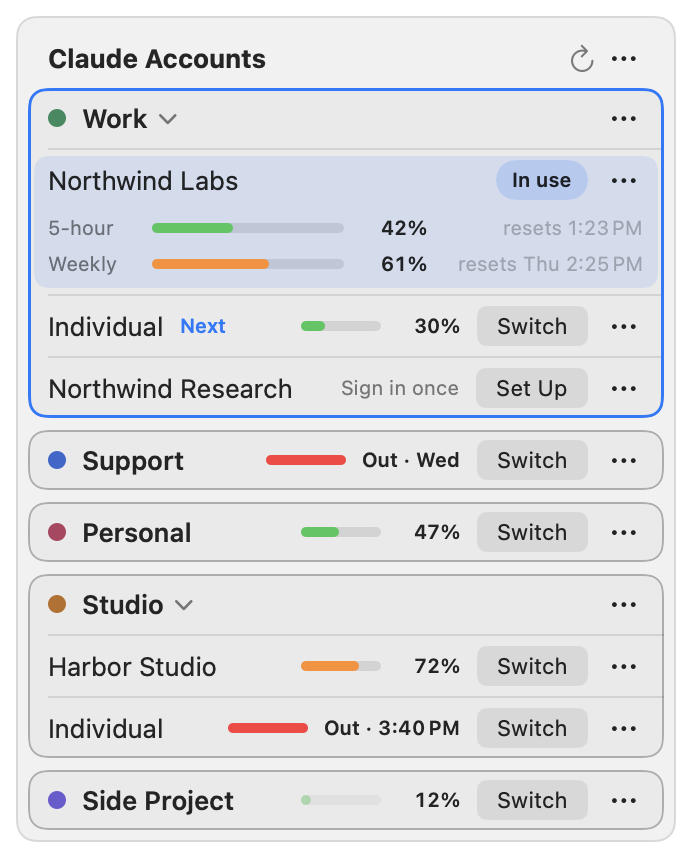
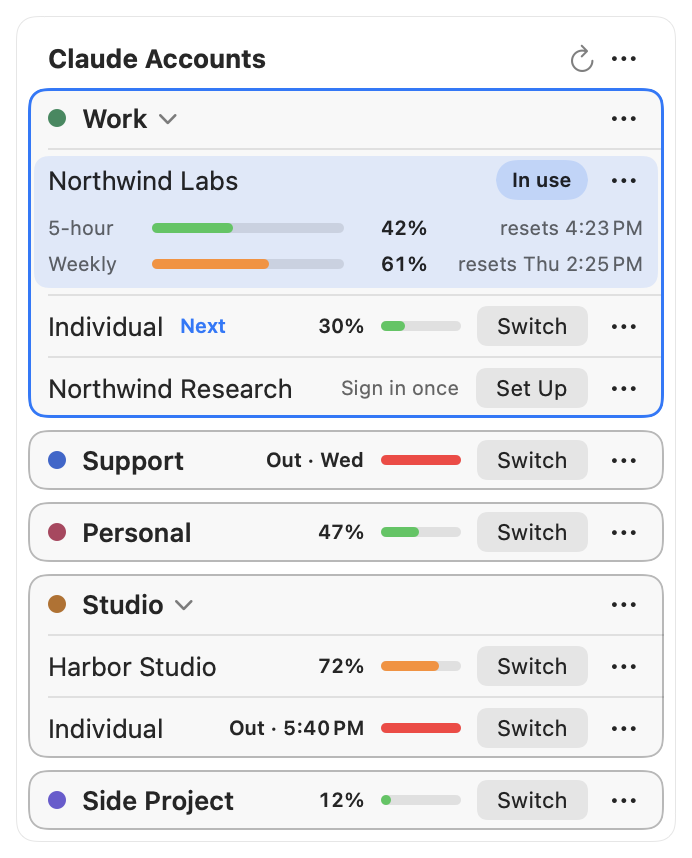
add a script that draws the menu in fixed states, share the title menu's items with it, and redraw the readme picture with it

diff --git a/scripts/render-menu.swift b/scripts/render-menu.swift
@@ -1,0 +1,284 @@
+// Draws the menu in fixed states to PNGs, for reviewing a menu change and for docs/menu.png.
+// Built and run by scripts/render-menu.sh with every app source except Main.swift, so the app
+// never starts. Seats.build and AppState.notice decide each state from hand-built Facts, and
+// MenuPanel draws them with empty MenuActions at a fixed time. Nothing reads a file, runs a
+// program, opens Claude, the keychain or the network: the menu is drawn from values only.
+
+import AppKit
+import SwiftUI
+
+func uuid(_ n: Int) -> String { String(format: "%08x-0000-4000-8000-%012x", n, n) }
+
+let cal = Calendar.current
+let now = cal.date(from: DateComponents(year: 2026, month: 11, day: 23, hour: 14, minute: 5))!
+func at(_ h: Int, _ m: Int, dayOffset: Int = 0) -> Date {
+    cal.date(byAdding: .day, value: dayOffset, to: cal.date(bySettingHour: h, minute: m, second: 0, of: now)!)!
+}
+let thursday9 = at(9, 0, dayOffset: 3)
+
+func row(_ id: Int, account: Int, name: String, orgName: String, color: String = "") -> AccountRecord {
+    AccountRecord(id: "r\(id)", name: name, color: color, configDir: "/nonexistent", keychainService: "none",
+                  email: nil, accountUuid: uuid(account), orgName: orgName, orgUuid: uuid(100 + id))
+}
+
+/// 8 seats across 5 accounts.
+let baseRows: [AccountRecord] = [
+    row(1, account: 1, name: "Alpha", orgName: "alpha@example.com's Organization"),
+    row(2, account: 1, name: "Alpha", orgName: "Labs"),
+    row(3, account: 1, name: "Alpha", orgName: "Research"),
+    row(4, account: 2, name: "Beta", orgName: "beta@example.com's Organization"),
+    row(5, account: 2, name: "Beta", orgName: "Studio"),
+    row(6, account: 3, name: "Work", orgName: "Northwind"),
+    row(7, account: 4, name: "Home", orgName: "home@example.com's Organization"),
+    row(8, account: 5, name: "Side", orgName: "side@example.com's Organization"),
+].labelled()
+
+func m(_ five: Double?, _ fiveAt: Date?, _ week: Double?, _ weekAt: Date?, read: Date) -> SeatMeters {
+    SeatMeters(fiveHour: five.map { MeterReading(percent: $0, resetsAt: fiveAt) },
+               weekly: week.map { MeterReading(percent: $0, resetsAt: weekAt) }, readAt: read)
+}
+
+/// A Claude log line saying Claude holds `id` from `date`, read the way the app reads Claude's log.
+func logLine(_ date: Date, _ id: Identity) -> String {
+    let f = DateFormatter(); f.locale = Locale(identifier: "en_US_POSIX"); f.dateFormat = ClaudeLog.timeFormat
+    return "\(f.string(from: date)) [info] \(ClaudeLog.identity) accountId=\(id.account) orgId=\(id.org)"
+}
+
+enum Scenario { case spread, allOut, noAccessibility, stale }
+
+/// A desktop-like backdrop that differs from the panel in both appearances.
+let backdrop = Color(red: 0.45, green: 0.52, blue: 0.60)
+
+func facts(_ s: Scenario, order: SwitchOrder) -> Facts {
+    var f = Facts()
+    f.rows = baseRows
+    f.claude = ClaudeFacts(installed: true, running: true, missing: [])
+    f.log.read(logLine(at(13, 0), baseRows[1].seat))   // Claude holds Alpha · Labs since 1 PM
+    f.trusted = s != .noAccessibility
+    f.order = order
+    let fresh = now.addingTimeInterval(-2 * 60)
+    for r in baseRows where r.id != "r7" { f.saved[r.seat] = at(9, 0, dayOffset: -2) }   // Home was never signed in
+    switch s {
+    case .spread, .noAccessibility, .stale:
+        f.meters[baseRows[0].seat] = m(22, at(16, 40), 41, thursday9, read: now.addingTimeInterval(-42 * 60)) // stale
+        f.meters[baseRows[1].seat] = m(64, at(16, 10), 38, thursday9, read: fresh)                         // in use
+        f.meters[baseRows[2].seat] = m(8, at(18, 15), 15, thursday9, read: fresh)
+        f.meters[baseRows[3].seat] = m(12, at(17, 0), 20, thursday9, read: fresh)
+        f.meters[baseRows[4].seat] = m(100, at(17, 30), 57, thursday9, read: fresh)                        // out
+        f.meters[baseRows[5].seat] = m(31, at(15, 50), 24, thursday9, read: fresh)
+        f.meters[baseRows[7].seat] = m(5, at(18, 45), 72, thursday9, read: fresh)
+        if s == .stale {
+            // The seat in use read 42 min ago, and Work not read yet.
+            f.meters[baseRows[1].seat] = m(64, at(16, 10), 38, thursday9, read: now.addingTimeInterval(-42 * 60))
+            f.meters[baseRows[5].seat] = nil
+        }
+    case .allOut:
+        f.meters[baseRows[0].seat] = m(100, at(16, 40), 41, thursday9, read: fresh)
+        f.meters[baseRows[1].seat] = m(100, at(16, 10), 61, thursday9, read: fresh)
+        f.stops[baseRows[1].seat] = StopMark(at: now.addingTimeInterval(-6 * 60), resetsAt: at(16, 10))
+        f.meters[baseRows[2].seat] = m(100, at(15, 20), 33, thursday9, read: fresh)
+        f.meters[baseRows[3].seat] = m(100, at(17, 0), 48, thursday9, read: fresh)
+        f.meters[baseRows[4].seat] = m(100, at(17, 30), 57, thursday9, read: fresh)
+        f.meters[baseRows[5].seat] = m(100, at(15, 50), 70, thursday9, read: fresh)
+        f.meters[baseRows[7].seat] = m(64, at(18, 45), 100, thursday9, read: fresh)
+        f.waitingChats = 2
+    }
+    return f
+}
+
+/// The 8 seats plus 16 one-seat accounts, 8 above and 8 below, so the in-use card sits mid-list
+/// and the cards need more than a 900 pt screen gives them.
+func overflowFacts() -> Facts {
+    let before = ["Gamma", "Delta", "Echo", "Fern", "Grove", "Harbor", "Iris", "Juniper"]
+    let after = ["Kestrel", "Lumen", "Maple", "Nova", "Orbit", "Pine", "Quartz", "Reed"]
+    let extra = { (names: [String], start: Int) in
+        names.enumerated().map { i, n in row(start + i, account: start + i, name: n, orgName: "\(n.lowercased())@example.com's Organization") }
+    }
+    var f = facts(.noAccessibility, order: .topToBottom)
+    f.rows = (extra(before, 20) + baseRows + extra(after, 40)).labelled()
+    for (i, r) in f.rows.enumerated() where f.meters[r.seat] == nil && r.id != "r7" {
+        f.saved[r.seat] = at(9, 0, dayOffset: -2)
+        let p = Double((i * 37) % 90)
+        f.meters[r.seat] = m(p, at(17, 0), p / 2, thursday9, read: now.addingTimeInterval(-120))
+    }
+    return f
+}
+
+/// The README's picture: the seat in use with both meters, Next, two seats out, one to set up.
+func readmeFacts() -> Facts {
+    let rows = [
+        row(1, account: 1, name: "Work", orgName: "Northwind Labs", color: "#2C8A5E"),
+        row(2, account: 1, name: "Work", orgName: "work@example.com's Organization", color: "#2C8A5E"),
+        row(3, account: 1, name: "Work", orgName: "Northwind Research", color: "#2C8A5E"),
+        row(4, account: 2, name: "Support", orgName: "support@example.com's Organization", color: "#3567CF"),
+        row(5, account: 3, name: "Personal", orgName: "personal@example.com's Organization", color: "#B3405F"),
+        row(6, account: 4, name: "Studio", orgName: "Harbor Studio", color: "#B96E22"),
+        row(7, account: 4, name: "Studio", orgName: "studio@example.com's Organization", color: "#B96E22"),
+        row(8, account: 5, name: "Side Project", orgName: "side@example.com's Organization", color: "#6B5BD2"),
+    ].labelled()
+    var f = Facts()
+    f.rows = rows
+    f.claude = ClaudeFacts(installed: true, running: true, missing: [])
+    f.log.read(logLine(at(13, 0), rows[0].seat))
+    f.trusted = true
+    let fresh = now.addingTimeInterval(-2 * 60)
+    for r in rows where r.id != "r3" { f.saved[r.seat] = at(9, 0, dayOffset: -2) }   // Northwind Research is still to set up
+    f.meters[rows[0].seat] = m(42, at(16, 23), 61, at(14, 25, dayOffset: 3), read: fresh)
+    f.meters[rows[1].seat] = m(30, at(17, 10), 22, thursday9, read: fresh)
+    f.meters[rows[3].seat] = m(35, at(18, 0), 100, at(10, 0, dayOffset: 2), read: fresh)
+    f.meters[rows[4].seat] = m(47, at(16, 50), 30, thursday9, read: fresh)
+    f.meters[rows[5].seat] = m(72, at(17, 20), 44, thursday9, read: fresh)
+    f.meters[rows[6].seat] = m(100, at(17, 40), 52, thursday9, read: fresh)
+    f.meters[rows[7].seat] = m(12, at(18, 30), 9, thursday9, read: fresh)
+    return f
+}
+
+// MARK: - Drawing
+
+struct Shot: View {
+    let seats: [Seat]
+    let notice: Notice?
+    let visible: CGFloat
+    let header: MenuHeader
+    let looks: MenuLooks
+
+    init(_ f: Facts, visible: CGFloat, header: MenuHeader = MenuHeader(updatedAt: now.addingTimeInterval(-120))) {
+        seats = Seats.build(f, now: now)
+        notice = AppState.notice(f, now: now)
+        self.visible = visible
+        self.header = header
+        looks = MenuLooks(colors: resolvedColors(f.rows.map { ($0.seat.account, $0.color) }))
+    }
+
+    var body: some View {
+        let shape = RoundedRectangle(cornerRadius: 10, style: .continuous)
+        MenuPanel(seats: seats, notice: notice, firstRun: false, visibleScreenHeight: visible,
+                  header: header, looks: looks, now: now)
+            .background(shape.fill(Color(nsColor: .windowBackgroundColor)))
+            .clipShape(shape)
+            .overlay(shape.strokeBorder(Color(nsColor: .separatorColor), lineWidth: 0.5))
+    }
+}
+
+/// The panel on a strip of screen `visible` points tall, so the image shows how much of the
+/// screen the menu takes; nil draws the panel alone.
+struct Screen<Content: View>: View {
+    let visible: CGFloat?
+    @ViewBuilder let content: Content
+    var body: some View {
+        ZStack(alignment: .topTrailing) {
+            Rectangle().fill(backdrop)
+            content.padding(.top, 6).padding(.trailing, 12)
+        }
+        .frame(width: MenuLayout.width + 24, height: visible)
+    }
+}
+
+/// Draws `view` offscreen at 2x into a PNG. The app's activation policy keeps every window off screen.
+@MainActor
+func render<V: View>(_ view: V, dark: Bool, to path: String) {
+    let host = NSHostingView(rootView: view)
+    host.appearance = NSAppearance(named: dark ? .darkAqua : .aqua)
+    host.frame = NSRect(origin: .zero, size: host.fittingSize)
+    let window = NSWindow(contentRect: host.frame, styleMask: [.borderless], backing: .buffered, defer: false)
+    window.appearance = host.appearance
+    window.contentView = host
+    host.layoutSubtreeIfNeeded()
+    // Lets the scroll view apply its scroll-to-the-seat-in-use before the capture.
+    RunLoop.current.run(until: Date().addingTimeInterval(0.4))
+    host.layoutSubtreeIfNeeded()
+    let rep = host.bitmapImageRepForCachingDisplay(in: host.bounds)!
+    host.cacheDisplay(in: host.bounds, to: rep)
+    try! rep.representation(using: .png, properties: [:])!.write(to: URL(fileURLWithPath: path))
+    print("wrote \(path)")
+    window.contentView = nil
+}
+
+/// One NSMenuItem as macOS draws it in a menu: checkmark column, title, shortcut or submenu chevron.
+struct MenuRow: View {
+    let item: NSMenuItem
+    var highlighted = false
+    var body: some View {
+        if item.isSeparatorItem {
+            Divider().padding(.horizontal, 10).frame(height: 11)
+        } else {
+            HStack(spacing: 0) {
+                Image(systemName: "checkmark").font(.system(size: 11, weight: .semibold))
+                    .opacity(item.state == .on ? 1 : 0).frame(width: 22)
+                Text(item.title).font(.system(size: 13))
+                Spacer(minLength: 24)
+                if item.submenu != nil { Image(systemName: "chevron.right").font(.system(size: 11, weight: .semibold)) }
+                else if !item.keyEquivalent.isEmpty {
+                    Text("⌘" + item.keyEquivalent.uppercased()).font(.system(size: 13)).foregroundStyle(.secondary)
+                }
+            }
+            .padding(.trailing, 10)
+            .frame(height: 22)
+            .foregroundStyle(highlighted ? AnyShapeStyle(.white) : AnyShapeStyle(.primary))
+            .background(RoundedRectangle(cornerRadius: 4).fill(highlighted ? Color.accentColor : .clear).padding(.horizontal, 5))
+        }
+    }
+}
+
+/// An open menu in macOS style. AppKit draws real menus only on screen, so the chrome is this tool's.
+struct MenuBox: View {
+    let menu: NSMenu
+    var highlight: String? = nil
+    let width: CGFloat
+    var body: some View {
+        VStack(alignment: .leading, spacing: 0) {
+            ForEach(Array(menu.items.enumerated()), id: \.offset) { _, item in
+                MenuRow(item: item, highlighted: item.title == highlight && !item.isSeparatorItem)
+            }
+        }
+        .padding(.vertical, 5)
+        .frame(width: width)
+        .background(RoundedRectangle(cornerRadius: 7, style: .continuous).fill(Color(nsColor: .windowBackgroundColor)))
+        .overlay(RoundedRectangle(cornerRadius: 7, style: .continuous).strokeBorder(Color(nsColor: .separatorColor), lineWidth: 0.5))
+        .shadow(color: .black.opacity(0.25), radius: 10, y: 4)
+    }
+}
+
+@main
+enum RenderMenu {
+    @MainActor static func main() {
+        NSApplication.shared.setActivationPolicy(.prohibited)
+        let out = CommandLine.arguments[1]
+        func both(_ name: String, _ view: some View) {
+            for dark in [false, true] { render(view, dark: dark, to: "\(out)/\(name)-\(dark ? "dark" : "light").png") }
+        }
+
+        for v: CGFloat in [900, 1400] {
+            both("menu-\(Int(v))pt", Screen(visible: v) { Shot(facts(.spread, order: .topToBottom), visible: v) })
+        }
+        render(Screen(visible: nil) { Shot(facts(.allOut, order: .topToBottom), visible: 900) }, dark: false,
+               to: "\(out)/notice-waiting-light.png")
+        both("stale-states", Screen(visible: nil) { Shot(facts(.stale, order: .topToBottom), visible: 900) })
+        render(Screen(visible: nil) { Shot(facts(.noAccessibility, order: .topToBottom), visible: 900) }, dark: false,
+               to: "\(out)/notice-accessibility-light.png")
+        both("overflow-24-seats-900pt", Screen(visible: 900) { Shot(overflowFacts(), visible: 900, header: MenuHeader(updatedAt: now)) })
+
+        // The title's ··· menu open on Switch Order. SwiftUI fills a Menu's NSMenu only when it opens
+        // on screen, so the title bar's own items are built into an NSHostingMenu to read their real
+        // titles, submenus and checkmarks.
+        let header = MenuHeader(updatedAt: now.addingTimeInterval(-120), switchOrder: .personalFirst)
+        let panel = Shot(facts(.spread, order: .personalFirst), visible: 900, header: header)
+        render(Screen(visible: nil) { panel }, dark: false, to: "\(out)/order-personal-first-panel-light.png")
+        let items = NSHostingMenu(rootView: TitleMenuItems(header: header, actions: MenuActions()))
+        items.update()
+        let order = items.items.first { $0.title == "Switch Order" }!.submenu!
+        let panelX: CGFloat = 260, mainW: CGFloat = 230, subW: CGFloat = 190
+        let mainX = panelX + MenuLayout.width - 16 - mainW, mainY: CGFloat = 6 + 6 + 30
+        let rowY = items.items.prefix { $0.title != "Switch Order" }.reduce(CGFloat(0)) { $0 + ($1.isSeparatorItem ? 11 : 22) }
+        both("switch-order-open", ZStack(alignment: .topLeading) {
+            Rectangle().fill(backdrop)
+            panel.offset(x: panelX, y: 6)
+            MenuBox(menu: items, highlight: "Switch Order", width: mainW).offset(x: mainX, y: mainY)
+            MenuBox(menu: order, width: subW).offset(x: mainX - subW + 2, y: mainY + rowY)
+        }
+        .frame(width: panelX + MenuLayout.width + 12, height: 6 + 419 + 6, alignment: .topLeading))
+
+        // docs/menu.png: the panel alone with an 8 pt clear margin, light.
+        render(Shot(readmeFacts(), visible: 900).padding(8), dark: false, to: "\(out)/menu-readme.png")
+    }
+}

diff --git a/app/Views.swift b/app/Views.swift
@@ -436,28 +436,36 @@ struct TitleBar: View {
             .keyboardShortcut("r")
             .help((header.updatedAt.map { "Updated \($0.formatted(date: .omitted, time: .shortened)). " } ?? "") + "Refresh (⌘R)")
             .accessibilityLabel("Refresh")
-            MoreMenu(name: "Claude Accounts") {
-                Button("Add Account…") { actions.signIn(nil) }
-                Divider()
-                Picker("Menu Bar Shows", selection: Binding(get: { header.display }, set: { actions.setDisplay($0) })) {
-                    ForEach(MenuBarDisplay.allCases) { Text($0.title).tag($0) }
-                }
-                Picker("Gauge Tracks", selection: Binding(get: { header.metric }, set: { actions.setMetric($0) })) {
-                    ForEach(UsageMetric.allCases) { Text($0.title).tag($0) }
-                }
-                Divider()
-                Toggle("Auto-Switch When Out", isOn: Binding(get: { header.autoSwitch }, set: { actions.setAutoSwitch($0) }))
-                    .help("When Claude stops a chat because the seat in use is out of usage, quit Claude, reopen it on the seat marked Next, and send \u{201C}resume\u{201D} to the chats that were working")
-                Picker("Switch Order", selection: Binding(get: { header.switchOrder }, set: { actions.setSwitchOrder($0) })) {
-                    ForEach(SwitchOrder.allCases) { Text($0.title).tag($0) }
-                }
-                Toggle("Open at Login", isOn: Binding(get: { header.openAtLogin }, set: { _ in actions.toggleOpenAtLogin() }))
-                Divider()
-                Button("Quit Claude Accounts") { NSApp.terminate(nil) }.keyboardShortcut("q")
-            }
+            MoreMenu(name: "Claude Accounts") { TitleMenuItems(header: header, actions: actions) }
         }
         .padding(.horizontal, 10)
         .frame(height: MenuLayout.titleBar)
+    }
+}
+
+/// The title bar's ··· items: the rare actions and the settings.
+struct TitleMenuItems: View {
+    let header: MenuHeader
+    let actions: MenuActions
+
+    var body: some View {
+        Button("Add Account…") { actions.signIn(nil) }
+        Divider()
+        Picker("Menu Bar Shows", selection: Binding(get: { header.display }, set: { actions.setDisplay($0) })) {
+            ForEach(MenuBarDisplay.allCases) { Text($0.title).tag($0) }
+        }
+        Picker("Gauge Tracks", selection: Binding(get: { header.metric }, set: { actions.setMetric($0) })) {
+            ForEach(UsageMetric.allCases) { Text($0.title).tag($0) }
+        }
+        Divider()
+        Toggle("Auto-Switch When Out", isOn: Binding(get: { header.autoSwitch }, set: { actions.setAutoSwitch($0) }))
+            .help("When Claude stops a chat because the seat in use is out of usage, quit Claude, reopen it on the seat marked Next, and send \u{201C}resume\u{201D} to the chats that were working")
+        Picker("Switch Order", selection: Binding(get: { header.switchOrder }, set: { actions.setSwitchOrder($0) })) {
+            ForEach(SwitchOrder.allCases) { Text($0.title).tag($0) }
+        }
+        Toggle("Open at Login", isOn: Binding(get: { header.openAtLogin }, set: { _ in actions.toggleOpenAtLogin() }))
+        Divider()
+        Button("Quit Claude Accounts") { NSApp.terminate(nil) }.keyboardShortcut("q")
     }
 }
 

diff --git a/README.md b/README.md
@@ -281,6 +281,8 @@ Those flash small windows for a moment and need Accessibility for your
 terminal. `release.sh` builds and zips the app into `dist/` for a GitHub
 release and prints the checksum the Homebrew cask needs. The icon is drawn by
 `app/make-icon.swift`; delete `app/AppIcon.icns` to regenerate it.
+`scripts/render-menu.sh` draws the menu in fixed states to PNGs without
+starting the app; its `menu-readme.png` is `docs/menu.png`.
 
 Before 0.3 the app kept its state in a `data` folder beside itself. A launch
 that finds one moves it to Application Support and carries each login's
